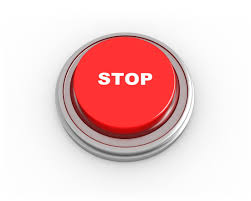
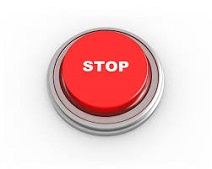
Added: display block

diff --git a/HTML/SimplePage.html b/HTML/SimplePage.html
@@ -41,7 +41,6 @@
         </p>
 
         <img src="../images/strawberry.jpg" alt="Picture1" width="350" height="280" id="berry" />
-        <figcaption>Ягоды</figcaption>
 
         <p>
             <em>
@@ -64,7 +63,7 @@
             <a href="#test">Перейти</a>
         </p>
 
-    <img src="../images/berries.jpg" alt="Picture2" width="350" height="280"  />
+    <img id="test2" src="../images/berries.jpg" alt="Picture2" width="350" height="280"  />
 
                  <ol>
                      <li class="bold-text">Многие думают, что Lorem Ipsum - взятый с потолка псевдо-латинский набор слов, но это не совсем так.</li>
@@ -108,8 +107,9 @@
 
         <p><a href="../documents/cheers.pdf" target="_blank"><em><strong>Файл</strong></em></a></p>
 
-        <a href="#"><img src="../images/stop.jpg" alt="Order" /></a>
-
+        <div id="order">
+             <a href="#"><img src="../images/stop.jpg" alt="Order" /></a>
+        </div>
         <p>
             <img id="test" src="../images/baloons.jpg" alt="Шары" />
         </p>
@@ -159,7 +159,7 @@
 
     </table>
 
-        <ul>
+        <ul id="elements">
             <li>&copy;</li>
             <li>&reg;</li>
             <li>&trade;</li>

diff --git a/CSS/SimplePage.css b/CSS/SimplePage.css
@@ -145,3 +145,24 @@ th {
     margin-top: -50px;
 
 }
+
+#test {
+    margin: 0 auto;
+    display: block;
+}
+
+#test2 {
+    margin: 0 auto;
+    display: block;
+}
+
+#order {
+    width: 212px;
+    height: 169px;
+    margin: 15px auto;
+
+}
+
+#elements {
+    list-style: none;
+}
